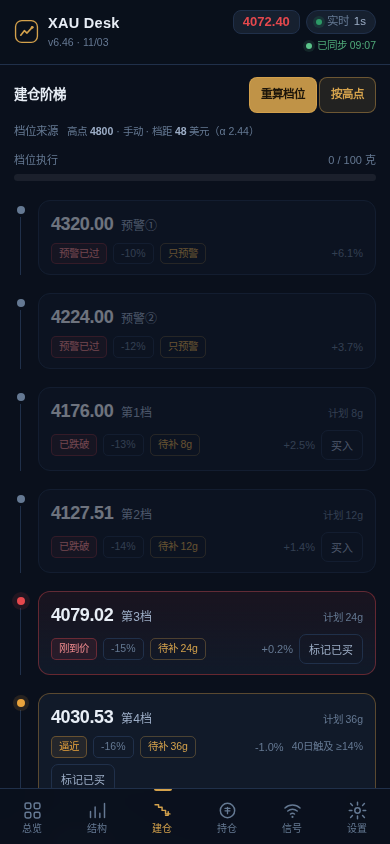
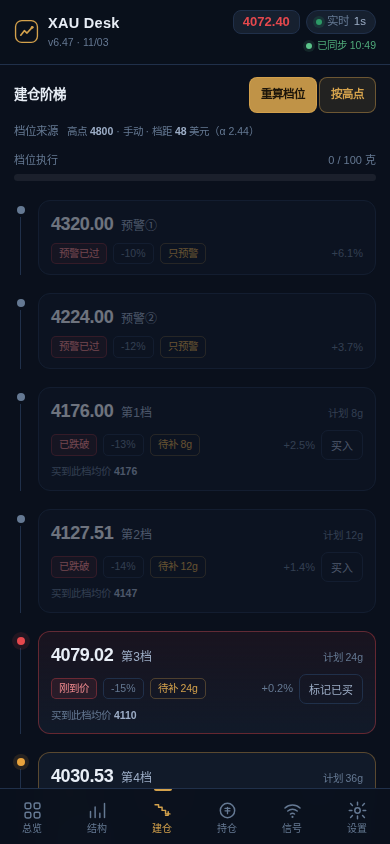
v6.47 P30 档位体检：满仓成本与逐档累计均价
落在建仓阶梯页，不新开卡 —— 体检四问里三问阶梯页已有（dist 距现价、40日触及、
avgAll 买满均价），缺的只有「满仓要多少钱」和「跌到第 N 档均价多少」。

- gearCostOf(rows) 写入 S.gearMeta：fullCost / fullCostCny / cumAvg / cumGram / cumAvgByIdx
- 克重取 g.plan（含配额下沉），不用 planBase —— 否则与阶梯行克重对不上
- 跳过 warn 档（无克重），故 cumAvg[0] 对应第一个有克重的档，不是 gears[0]
- cumAvgByIdx 按档号索引：阶梯行只知道自己第几档，不知道在累计数组里第几位
- 汇率缺失 fullCostCny = null，界面写「≈¥ —」，不写 0（0 会被读成满仓不要钱）
- 均价卡加「满仓成本 · 200 g」
- 阶梯每档加「买到此档均价」小字
- __xt 暴露 renderAvgCard：测汇率缺失不能走 refreshAll（它会重拉汇率覆盖 S.fx）

两个自我校验点（测试锁死）：
  cumAvg[0]  == 第一个有克重的档的价
  cumAvg[末] == avgAll

新增 test_p30_gear_cost.py 14 条。全量 884 passed。

diff --git a/index.html b/index.html
@@ -1,5 +1,5 @@
 <!DOCTYPE html>
-<!-- XAU Desk v6.46 · 单引擎 + P6 循环档 + P7 深档兜底 + P8 配额下沉 + P9 档位可配（6–10 档、起止跌幅、区间模式、均价锚定档位、预警档位可选）+ P10 双口径均价（锚定均价 1–k 档 / 选定档位试算均价 全 n 档）+ P11 权重合计提示（超 100% 标橙 / 一键归一化）+ P12 下沉标签标克重 + P13 「估」字角标（成本为估算的旧标记）+ P14 设置页三卡分组 / 速览条 / 云端与维护折叠 + P15 计划模式可记账 / 账本模式可下沉 + P16 减仓摊派（卖出按各档净持占比摊到标记，溢出档不接收下沉）+ P16a 档位三态（已买 / 已买满 / 已买超）+ P16b 仓位进度卡（持仓 / 上限 + 五阶渐进 20 段）+ P16 通道 1 小时（1d/4h 各 90 根、1h 180 根）+ P17 设置页收尾（未保存浮条 / 脏值描边 / 档数归位）+ P19-1 判定回溯（方向色带 / 分布 / 切换记录）+ P22 阶梯头去重 / 重操作按钮实体化 / 仓位色阶去绿 + P20 单模式合一 + P21 摊派回滚（卖出记录带分摊快照，改克重/删记录按快照精确退回）+ P18 执行复盘（逐档计划价 vs 成交均价、四态执行、每克拉低）+ P19-2 策略回测（固定档位逐根推进、三组同本金对照、权益曲线、逐档触及）+ P23 文档一致性（README 补齐五期 / 术语表 / 约束文档 / 文档测试）+ P26 测试分层（冒烟 22 条 26 秒 / 全量 816 条 / strict-markers）+ P24 数据版本（schemaVersion / 迁移入口收敛为 1 处）+ P25 回溯逐条依据（点某天看五条条件各自的数值）+ P27 标记双币口径（克重/美元价/实付人民币三事实分离，人民币为唯一统计口径） + P28 回测与设置联动（参数快照条 / 高点默认跟随设置 / 逐档对照表 / 修 31.1 倍量纲错误 / planBase 隔离实盘状态） · 移动优先 · 数据以 GitHub 私有仓库为唯一来源，浏览器不保存业务数据 -->
+<!-- XAU Desk v6.47 · 单引擎 + P6 循环档 + P7 深档兜底 + P8 配额下沉 + P9 档位可配（6–10 档、起止跌幅、区间模式、均价锚定档位、预警档位可选）+ P10 双口径均价（锚定均价 1–k 档 / 选定档位试算均价 全 n 档）+ P11 权重合计提示（超 100% 标橙 / 一键归一化）+ P12 下沉标签标克重 + P13 「估」字角标（成本为估算的旧标记）+ P14 设置页三卡分组 / 速览条 / 云端与维护折叠 + P15 计划模式可记账 / 账本模式可下沉 + P16 减仓摊派（卖出按各档净持占比摊到标记，溢出档不接收下沉）+ P16a 档位三态（已买 / 已买满 / 已买超）+ P16b 仓位进度卡（持仓 / 上限 + 五阶渐进 20 段）+ P16 通道 1 小时（1d/4h 各 90 根、1h 180 根）+ P17 设置页收尾（未保存浮条 / 脏值描边 / 档数归位）+ P19-1 判定回溯（方向色带 / 分布 / 切换记录）+ P22 阶梯头去重 / 重操作按钮实体化 / 仓位色阶去绿 + P20 单模式合一 + P21 摊派回滚（卖出记录带分摊快照，改克重/删记录按快照精确退回）+ P18 执行复盘（逐档计划价 vs 成交均价、四态执行、每克拉低）+ P19-2 策略回测（固定档位逐根推进、三组同本金对照、权益曲线、逐档触及）+ P23 文档一致性（README 补齐五期 / 术语表 / 约束文档 / 文档测试）+ P26 测试分层（冒烟 22 条 26 秒 / 全量 816 条 / strict-markers）+ P24 数据版本（schemaVersion / 迁移入口收敛为 1 处）+ P25 回溯逐条依据（点某天看五条条件各自的数值）+ P27 标记双币口径（克重/美元价/实付人民币三事实分离，人民币为唯一统计口径） + P28 回测与设置联动（参数快照条 / 高点默认跟随设置 / 逐档对照表 / 修 31.1 倍量纲错误 / planBase 隔离实盘状态） · 移动优先 · 数据以 GitHub 私有仓库为唯一来源，浏览器不保存业务数据 -->
 <html lang="zh-CN">
 <head>
 <meta charset="UTF-8">
@@ -462,6 +462,11 @@ body.tab-ov .tpx{display:none}
 .lv .nm{font-size:12px;color:var(--tx2)}
 .lv .plan{margin-left:auto;font-size:10.5px;color:var(--tx3);white-space:nowrap;font-variant-numeric:tabular-nums}
 .lv .r2{display:flex;align-items:center;gap:6px;margin-top:5px;flex-wrap:wrap}
+/* P30 买到此档均价：一路买到这里整体落在哪个价位。次级信息，独立成行，
+   不塞进 pill 行 —— 那行在 320 宽已经满了，再加一枚就换行换得难看 */
+.lv .cumavg{display:block;margin-top:4px;font-size:10.5px;color:var(--tx3);
+            font-variant-numeric:tabular-nums}
+.lv .cumavg b{color:var(--tx2);font-weight:600}
 .pill{font-size:10.5px;padding:2px 7px;border-radius:5px;border:1px solid var(--line);color:var(--tx3)}
 .pill.p-hit{color:#F08A8E;border-color:rgba(229,72,77,.35);background:rgba(229,72,77,.1)}
 .pill.p-near{color:var(--amber);border-color:rgba(232,163,61,.35);background:rgba(232,163,61,.09)}
@@ -856,7 +861,7 @@ body.tab-ov .tpx{display:none}
       </svg>
       <div>
         <h1>XAU Desk</h1>
-        <div class="sub"><span class="sdesc">伦敦金行情智能分析 · </span><span id="verTag">v6.46 · 11/03</span></div>
+        <div class="sub"><span class="sdesc">伦敦金行情智能分析 · </span><span id="verTag">v6.47 · 11/03</span></div>
       </div>
     </div>
     <div class="stat">
@@ -4282,6 +4287,41 @@ function planAvg(He, names){
   return s > 0 ? a / s : null;
 }
 
+/* P30 档位体检：满仓成本与逐档累计均价。
+   克重取 g.plan（已含配额下沉后的实际克重），不能用 planBase —— 否则和阶梯行
+   显示的克重对不上，两个数会打架。warn 档（高于高点、只有预警价）没有克重，
+   直接跳过，不占累计位。
+   两个自我校验点（测试里锁死）：
+     cumAvg[0]    == 第 1 档价      —— 只买一档时，均价就是这一档的价
+     cumAvg[末]   == avgAll        —— 全买完，应与均价卡的「全部买满」同数
+   第二条若不等，说明 avgAll 与这里的克重来源不一致，要查而不是放宽。 */
+function gearCostOf(rows){
+  var cost = 0, gram = 0, cumAvg = [], cumGram = [], byIdx = {};
+  for(var i = 0; i < rows.length; i++){
+    var g = rows[i];
+    if(!g || g.warn) continue;
+    var gm = Number(g.plan) || 0;
+    var px = Number(g.price) || 0;
+    if(!(gm > 0) || !(px > 0)) continue;
+    cost += gm * px / OZ_PER_G;
+    gram += gm;
+    var avg = Math.round(cost / (gram / OZ_PER_G) * 100) / 100;
+    cumGram.push(Math.round(gram * 100) / 100);
+    cumAvg.push(avg);
+    /* byIdx 是按档号取的索引：阶梯行只知道自己第几档，不知道自己在累计数组里的第几位
+       （warn 档占了头部但是被跳过的，两者不同号）。 */
+    byIdx[g.idx] = avg;
+  }
+  var fx = Number(S.fx);
+  return {
+    fullCost: Math.round(cost * 100) / 100,
+    /* 人民币只做参考：汇率缺失给 null，界面上写「¥ —」，
+       不能写 0 —— 那会被读成「满仓不要钱」 */
+    fullCostCny: fx > 0 ? Math.round(cost * fx * 100) / 100 : null,
+    cumAvg: cumAvg, cumGram: cumGram, cumAvgByIdx: byIdx
+  };
+}
+
 function computeGears(){
   var base = gearBase();
   var he = base.he;
@@ -4404,6 +4444,8 @@ function computeGears(){
     needMain: 0, suggest: null, short: false,
     far: (T && S.price && he) ? Math.abs(he / S.price - 1) : null
   };
+  /* P30：体检数据挂到 meta 上，界面从 S.gearMeta 读，不各算一遍 */
+  Object.assign(meta, gearCostOf(rows));
   try { rows.meta = meta; } catch(e) {}
   S.gearMeta = meta;
   return rows;
@@ -6708,6 +6750,12 @@ function renderLadder(){
     }
     var ui = gearUI(g);
     var gap = p === null ? null : (g.price / p - 1) * 100;
+    /* P30「买到此档均价」：从第 1 档一路买到这里，整体均价落在哪。
+       这一档自己没克重（权重 0 或纯预警）时不显示 —— 那说明它不参与建仓。 */
+    var gm = S.gearMeta;
+    var cum = (!g.warn && gm && gm.cumAvgByIdx && g.plan > 0.05) ? gm.cumAvgByIdx[g.idx] : null;
+    var cumTxt = (cum > 0)
+      ? '<span class="cumavg">买到此档均价 <b>' + num(cum, 0) + '</b></span>' : "";
     var grams = "", planTxt = "", tail = "", circ = "", swingTag = "", shiftTag = "";
 
     if(g.warn){
@@ -6786,7 +6834,7 @@ function renderLadder(){
         '<span class="pill g">' + grams + '</span>' +
         (gap !== null ? '<span class="dist num">' + (gap >= 0 ? "+" : "") + gap.toFixed(1) + '%</span>' : '') +
         circ + swingTag + shiftTag + tail +
-        '</div>' + drip + '</div></div>';
+        '</div>' + cumTxt + drip + '</div></div>';
     if(!g.warn && win.folded && g.idx === win.to && win.to < win.n)
       html += foldBar("bottom", win.to + 1, win.n);
   });
@@ -7152,11 +7200,24 @@ function renderAvgCardStruct(box, m){
       '</span></div>';
   }
 
+  /* P30 满仓成本：这套档位全部买满要多少钱。克重取累计末项（已排除 warn 档），
+     与「选定档位试算均价」同一口径，所以两个数能互相验算（成本 ÷ 克重 × 31.1035 = 均价）。
+     人民币只做参考：不折算历史汇率，就是当前汇率乘一下。 */
+  var costRow = "";
+  if(Number(m.fullCost) > 0){
+    var fcG = (m.cumGram && m.cumGram.length) ? m.cumGram[m.cumGram.length - 1] : totalGrams();
+    costRow = '<div class="a2 cost"><span>满仓成本 · ' + gnum(fcG) + ' g</span>' +
+      '<span class="vv"><b>' + bbUsd(m.fullCost) + '</b>' +
+      '<i>' + (m.fullCostCny !== null && m.fullCostCny !== undefined
+        ? "≈¥" + money(m.fullCostCny, 0) : "≈¥ —") + '</i></span></div>';
+  }
+
   box.innerHTML = '<div class="avgc">' +
     '<div class="hd"><span>高点 <b>' + num(m.he, 0) + '</b> · ' + how + '</span>' +
       '<span class="' + vcls + '">选定档位试算 · ' + gearCount() + ' 档均价 <b class="' + vcls + '">' + num(a14, 1) + '</b> ' + verdict + '</span></div>' +
     bar +
     ancRow +
+    costRow +
     '<div class="ft">' +
       '<span>目标 <b>' + (T ? num(T, 0) + " ±" + num(band, 0) : "未设") + '</b></span>' +
       '<span>档距 <b>' + (m.d ? num(m.d, 0) : "—") + '</b> · α <b>' +
@@ -9169,6 +9230,9 @@ if(/[?&]xt=1/.test(location.search)){
     playSnd:playSnd,
     holdStats:holdStats,
     renderGauge:renderGauge,
+    /* P30：均价卡单独暴露 —— 测「汇率缺失」这类只影响本卡的状态时，
+       不能走 refreshAll（它会重拉汇率，把构造好的 S.fx=0 覆盖掉） */
+    renderAvgCard:renderAvgCard,
     GAUGE_SEG:GAUGE_SEG,
     gearUI:gearUI,
     buildLevels:buildLevels,

diff --git a/tests/test_p30_gear_cost.py b/tests/test_p30_gear_cost.py
@@ -1,0 +1,208 @@
+"""P30 · 档位体检：满仓成本与逐档累计均价。
+
+两个自我校验点是这套算法的锚：
+    cumAvg[0]  == 第一个「有克重」的档的价 —— 不是 gears[0]，头部可能有纯预警档
+    cumAvg[末] == avgAll                     —— 全买完，应与均价卡的「全部买满」同数
+
+第二条若不等，说明 avgAll 与这里的克重来源不一致（一个用 planBase、一个用 plan），
+要查来源而不是放宽断言 —— 这正是 P28 那次「逐档表与阶梯页对不上」的同一类问题。
+"""
+import pytest
+
+from test_p19_2_back import cfg, make_bars
+
+OZ = 31.1035
+
+
+@pytest.fixture
+def env(make_env):
+    def _f(bars=None, width=390, height=844, **kw):
+        # width/height 必须给 make_env，不能塞进 cfg —— 否则 320 宽的用例实际跑在 390 上
+        return make_env(cfg=cfg(**kw), bars=bars if bars is not None else make_bars(),
+                        width=width, height=height)
+    return _f
+
+
+def goto_plan(p):
+    p.evaluate("() => window.__xt.gotoTab('plan')")
+    p.wait_for_timeout(320)
+
+
+def meta(p):
+    return p.evaluate("() => window.__xt.state().gearMeta")
+
+
+def gear_rows(p):
+    return p.evaluate("() => window.__xt.state().gears")
+
+
+def live_gears(p):
+    """真正参与建仓的档：非 warn、有克重。"""
+    return [g for g in gear_rows(p) if not g["warn"] and g["plan"] > 0.05]
+
+
+# ---------- 计算层 ----------
+
+def test_m1_full_cost_matches_hand_calc(env):
+    """满仓成本 = Σ(克重 × 档位价) ÷ 31.1035，只算有克重的档。"""
+    p = env().page
+    goto_plan(p)
+    m = meta(p)
+    want = sum(g["plan"] / OZ * g["price"] for g in live_gears(p))
+    assert want > 0
+    assert m["fullCost"] == pytest.approx(want, rel=0.005), (m["fullCost"], want)
+
+
+def test_m2_first_cum_equals_first_gear_price(env):
+    """第 1 个有克重的档，累计均价就是它自己的价。
+
+    注意不能写 gears[0] —— 头部有「预警① ②」这类纯预警档，它们没有克重、被跳过。
+    本场景必须含预警档，否则这条测不到「跳过」这件事。
+    """
+    p = env().page
+    goto_plan(p)
+    m, gs = meta(p), gear_rows(p)
+    assert gs[0]["warn"] is True, "场景应含预警档，否则测不到跳过逻辑"
+    live = live_gears(p)
+    assert m["cumAvg"][0] == pytest.approx(live[0]["price"], rel=0.001)
+
+
+def test_m3_last_cum_equals_avg_all(env):
+    """末项累计均价 == 均价卡的「选定档位试算均价」。两个不同的算法必须同数。"""
+    p = env().page
+    goto_plan(p)
+    m = meta(p)
+    assert m["cumAvg"][-1] == pytest.approx(m["avgAll"], rel=0.001), (
+        m["cumAvg"][-1], m["avgAll"])
+
+
+def test_m4_cum_avg_strictly_decreasing(env):
+    """档位价越往下越低，累计均价随之下移 —— 严格递减，不能有一档回升。"""
+    p = env().page
+    goto_plan(p)
+    cum = meta(p)["cumAvg"]
+    assert len(cum) >= 3, cum
+    assert all(cum[i] > cum[i + 1] for i in range(len(cum) - 1)), cum
+
+
+def test_m5_cum_gram_increasing(env):
+    """累计克重严格递增，末项 = 总计划克重。"""
+    p = env().page
+    goto_plan(p)
+    m = meta(p)
+    cg = m["cumGram"]
+    assert all(cg[i] < cg[i + 1] for i in range(len(cg) - 1)), cg
+    assert cg[-1] == pytest.approx(sum(g["plan"] for g in live_gears(p)), abs=0.05)
+
+
+def test_m6_realloc_moves_cost(env):
+    """配额下沉开启后，额度从高价档挪到低价档 → 满仓成本下降（克重总量不变）。
+
+    这条同时验证 gearCostOf 用的是 plan（含下沉）而不是 planBase ——
+    用 planBase 的话，开关怎么切 fullCost 都不会变。
+    """
+    p = env().page
+    goto_plan(p)
+    before = meta(p)["fullCost"]
+    p.evaluate("""() => {
+      var S = window.__xt.state();
+      S.cfg.realloc = {on:true, mode:"near", ratio:1, maxDrop:20};
+      S.reallocDead = undefined;
+      window.__xt.compute();
+    }""")
+    after = meta(p)["fullCost"]
+    assert after < before, "下沉后克重挪向低价档，成本应下降：%s → %s" % (before, after)
+
+
+def test_m7_warn_excluded_from_cum(env):
+    """纯预警档不进累计：cumAvg 长度 = 有克重的档数。"""
+    p = env().page
+    goto_plan(p)
+    gs, m = gear_rows(p), meta(p)
+    assert any(g["warn"] for g in gs), "场景应含预警档"
+    assert len(m["cumAvg"]) == len(live_gears(p))
+    assert len(m["cumGram"]) == len(m["cumAvg"])
+
+
+def test_m8_zero_weight_gear_skipped(env):
+    """权重为 0 的档没有克重，跳过，不占累计位。"""
+    p = env(wPct=[8, 12, 0, 36, 24, 20]).page
+    goto_plan(p)
+    gs = gear_rows(p)
+    zero = [g for g in gs if not g["warn"] and g["plan"] < 0.05]
+    assert zero, "应构造出一档权重为 0"
+    assert len(meta(p)["cumAvg"]) == len(live_gears(p))
+
+
+def test_m9_no_fx_shows_dash_not_zero(env):
+    """汇率缺失时人民币是 unknown，不是 0 —— 显示 0 会被读成「满仓不要钱」。"""
+    p = env().page
+    goto_plan(p)
+    # 不走 refreshAll：它会重拉汇率，把构造好的 S.fx=0 覆盖掉。只算 + 只重绘本卡
+    p.evaluate("""() => {
+      var S = window.__xt.state();
+      S.fx = 0;
+      window.__xt.compute();
+      window.__xt.renderAvgCard();
+    }""")
+    m = meta(p)
+    assert m["fullCostCny"] is None
+    txt = p.eval_on_selector("#avgCard", "e => e.innerText")
+    assert "满仓成本" in txt
+    assert "¥ —" in txt or "¥—" in txt, txt
+    assert "¥0" not in txt.replace(" ", ""), txt
+
+
+# ---------- 界面 ----------
+
+def test_m10_avg_card_shows_cost(env):
+    """均价卡出现「满仓成本」与 $ 金额，且带克重。"""
+    p = env().page
+    goto_plan(p)
+    txt = p.eval_on_selector("#avgCard", "e => e.innerText")
+    assert "满仓成本" in txt
+    assert "$" in txt
+    assert "200 g" in txt or "200g" in txt, txt
+
+
+def test_m11_ladder_row_shows_cum(env):
+    """每档一行「买到此档均价」，条数 = 有克重的档数，首条数值 = 该档价。"""
+    p = env().page
+    goto_plan(p)
+    rows = p.eval_on_selector_all("#ladder .lv", "els => els.map(e => e.innerText)")
+    hit = [r for r in rows if "买到此档均价" in r]
+    live = live_gears(p)
+    assert len(hit) == len(live), (len(hit), len(live))
+    first = int(round(live[0]["price"]))
+    assert ("买到此档均价 " + str(first)) in hit[0].replace("\n", " "), hit[0]
+
+
+def test_m12_narrow_320(env):
+    """320 宽：新增的成本行与均价小字都完整显示，整页不横向溢出。"""
+    p = env(width=320).page
+    goto_plan(p)
+    ov = p.evaluate("() => document.documentElement.scrollWidth - document.documentElement.clientWidth")
+    assert ov <= 0, "横向溢出 %spx" % ov
+    txt = p.eval_on_selector("#avgCard", "e => e.innerText")
+    assert "满仓成本" in txt and "¥" in txt, txt
+
+
+def test_m13_no_high_no_nan(env):
+    """没有高点（算不出档位）时不报错、不出现 NaN。"""
+    p = env(H_BASE=None, bars=[]).page
+    goto_plan(p)
+    body = p.evaluate("() => document.body.innerText")
+    assert "NaN" not in body
+    assert "undefined" not in body
+
+
+def test_m14_idempotent(env):
+    """连刷两次结果完全相同 —— 累计是纯计算，不能有状态累积。"""
+    p = env().page
+    goto_plan(p)
+    a = meta(p)
+    p.evaluate("() => window.__xt.refreshAll()")
+    b = meta(p)
+    assert a["fullCost"] == b["fullCost"]
+    assert a["cumAvg"] == b["cumAvg"]
+    assert a["cumGram"] == b["cumGram"]

diff --git a/CHANGELOG.md b/CHANGELOG.md
@@ -4,6 +4,53 @@
 
 ---
 
+## v6.47 · 2026-11-03（P30 档位体检）
+
+问「现在这套档位处境如何」——不需要历史 K 线，也不该新开一张卡。
+
+### 1）为什么落在建仓阶梯页
+
+体检想回答四问，其中三问阶梯页已经有了：
+
+| 问题 | 原来 |
+|---|---|
+| 跌到多少才触发 | 每档 `dist` 距现价百分比 |
+| 大概多久跌到 | 「40 日触及 X%」 |
+| 买满的均价 | 均价卡 `avgAll` |
+
+缺的只有两块：**满仓要多少钱**、**跌到第 N 档时均价多少**。所以补两块，不开新卡 ——
+新开一张就是两张卡说同一件事，和 P28 之前「两个下沉开关」是同一类错误。
+
+### 2）两个自我校验点
+
+```
+cumAvg[0]  == 第一个有克重的档的价
+cumAvg[末] == avgAll
+```
+
+第二条若不等，说明 `avgAll` 与 `gearCostOf` 用的克重来源不同（一个 `planBase`、一个 `plan`）。
+这条在测试里锁死，不允许放宽。
+
+### 3）实现上的三处细节
+
+- **跳过 warn 档**：头部「预警① ②」没有克重，直接跳过，不占累计位。
+  所以 `cumAvg[0]` 对应的是**第一个有克重的档**，不是 `gears[0]`。
+  为此 `gearCostOf` 额外返回 `cumAvgByIdx`（按档号索引），阶梯行才知道自己是第几档
+- **克重取 `g.plan`**（含配额下沉），不能用 `planBase` —— 否则和阶梯行显示的克重对不上
+- **汇率缺失给 `null` 不给 0**：界面上写「≈¥ —」。写 0 会被读成「满仓不要钱」
+
+### 4）调试桥新增 `renderAvgCard`
+
+测「汇率缺失」这类只影响本卡的状态时不能走 `refreshAll` —— 它会重拉汇率，
+把构造好的 `S.fx = 0` 覆盖掉。所以把均价卡单独暴露到 `__xt`。
+
+### 5）测试
+
+新增 `test_p30_gear_cost.py` 14 条（计算 9 / 界面 5）。
+相邻 57 条（P19-2 / P28 / P25）+ 冒烟 22 条全绿。全量 870 → 884。
+
+---
+
 ## v6.46 · 2026-11-03（P28 收尾：320 宽统计行）
 
 只管一件事：320 宽下统计区挤。
